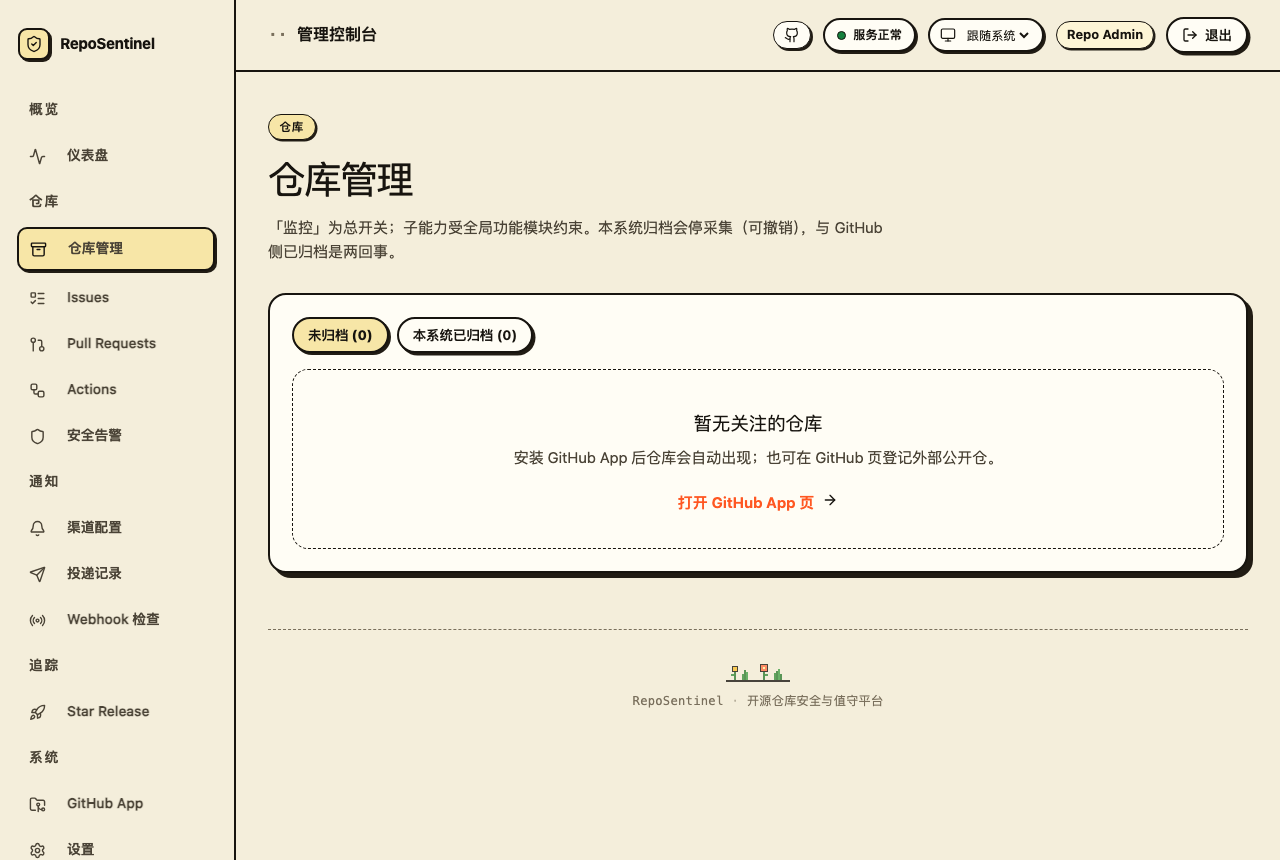
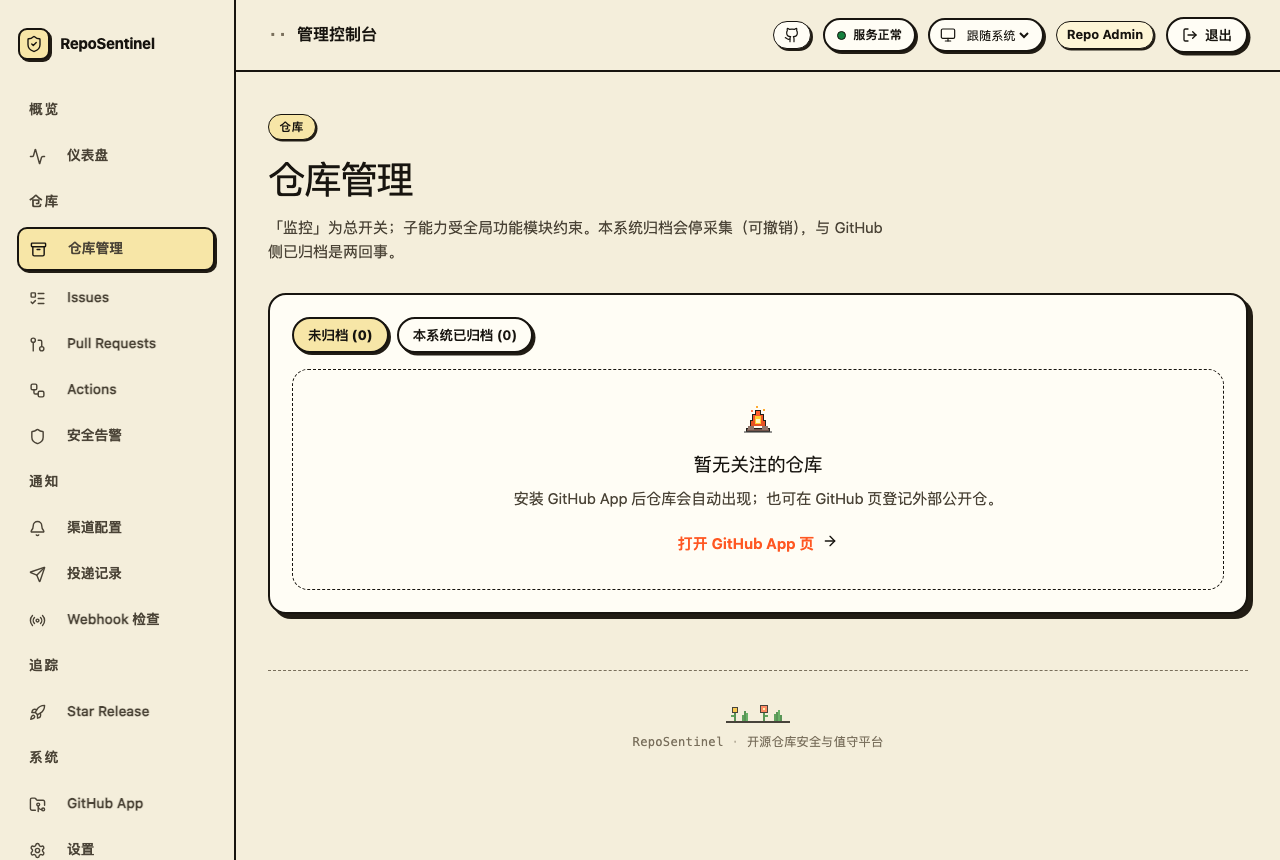
✨ feat(ui): 对齐像素氛围设计准则，重构地景流式锚定与窄屏收敛

diff --git a/web/src/styles/globals.css b/web/src/styles/globals.css
@@ -144,12 +144,14 @@ button:disabled {
 
 .auth-shell {
   position: relative;
-  display: grid;
+  display: flex;
+  flex-direction: column;
+  align-items: center;
+  justify-content: center;
   min-height: 100vh;
   min-height: 100dvh;
-  place-items: center;
-  padding: 48px 20px;
-  overflow: hidden;
+  padding: 48px 20px 24px;
+  overflow-x: hidden;
 }
 
 .auth-shell::before {
@@ -3406,11 +3408,11 @@ a.status-item--link:focus-visible {
 
 /* ── 像素风背景小景（Pixel-art Scenery Layer） ── */
 .pixel-scenery-ground {
-  position: absolute;
-  bottom: 0;
-  left: 0;
-  right: 0;
-  height: 52px;
+  position: relative;
+  width: 100%;
+  max-width: 960px;
+  margin-top: 36px;
+  height: 48px;
   pointer-events: none;
   user-select: none;
   overflow: hidden;
@@ -3418,8 +3420,8 @@ a.status-item--link:focus-visible {
   display: flex;
   align-items: flex-end;
   justify-content: space-between;
-  padding: 0 48px;
-  opacity: 0.9;
+  padding: 0 24px;
+  opacity: 0.88;
 }
 
 .pixel-scenery-ground__strip {
